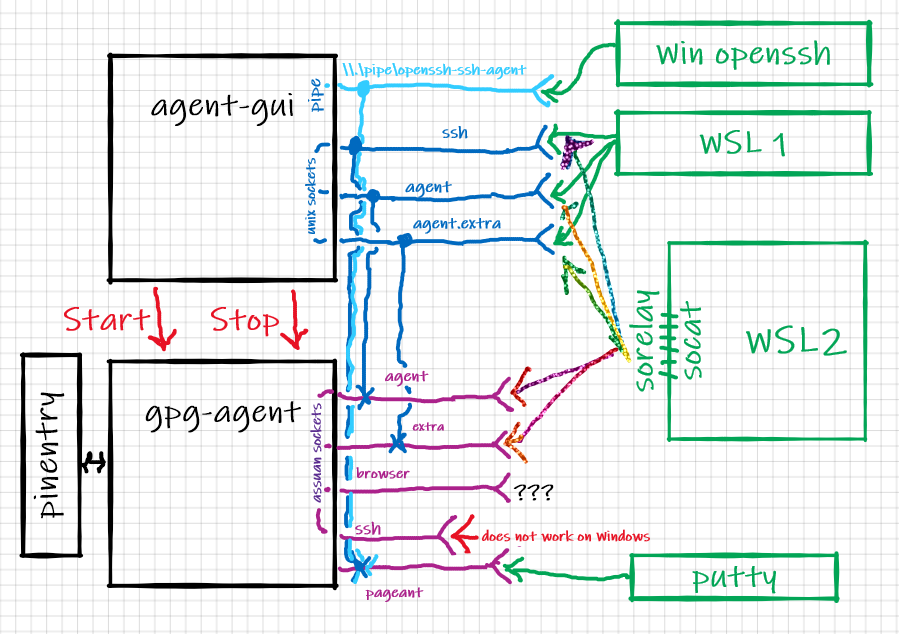
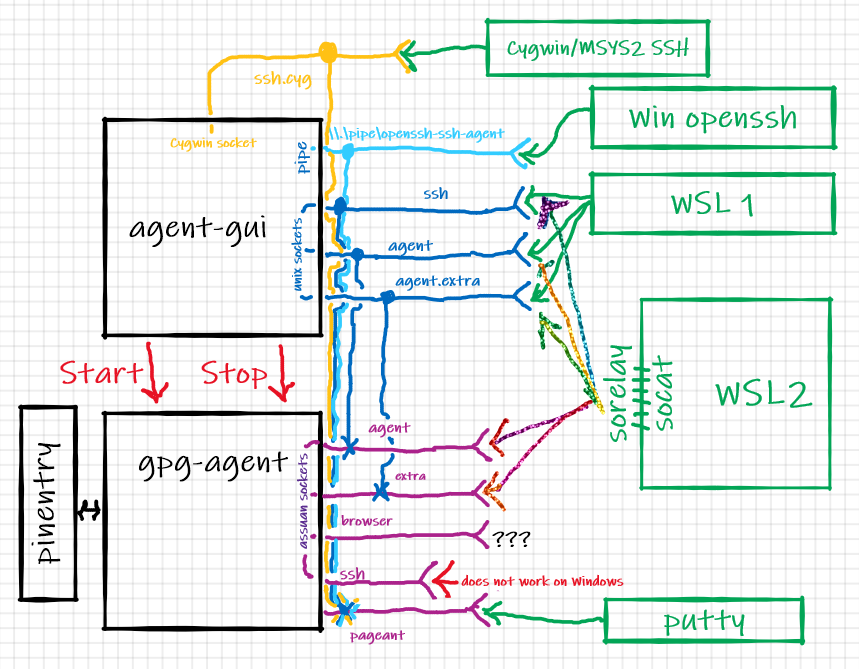
Adding support for Cygwin socket

Changed region(s): [[0.0, 0.0, 0.9988, 0.989], [0.0908, 0.2397, 0.1513, 0.2697]]

diff --git a/agent/connector.go b/agent/connector.go
@@ -34,6 +34,7 @@ const (
 	ConnectorSockAgentBrowser
 	ConnectorSockAgentSSH
 	ConnectorPipeSSH
+	ConnectorSockAgentCygwinSSH
 	maxConnector
 )
 
@@ -49,6 +50,8 @@ func (ct ConnectorType) String() string {
 		return "ssh-agent socket"
 	case ConnectorPipeSSH:
 		return "ssh-agent named pipe"
+	case ConnectorSockAgentCygwinSSH:
+		return "ssh-agent cygwin socket"
 	default:
 	}
 	return fmt.Sprintf("unknown connector type %d", ct)
@@ -84,11 +87,13 @@ func (c *Connector) Close() {
 	}
 	if err := c.listener.Close(); err != nil {
 		if !util.IsNetClosing(err) && !errors.Is(err, winio.ErrPipeListenerClosed) {
-			log.Printf("Error closing connector for %s: %s", c.index, err)
+			log.Printf("Error closing listener on connector for %s: %s", c.index, err)
 		}
 	}
 	if c.index != ConnectorPipeSSH && len(c.PathGUI()) != 0 {
-		_ = windows.Unlink(c.PathGUI())
+		if err := os.Remove(c.PathGUI()); err != nil {
+			log.Printf("Error closing connector for %s: %s", c.index, err.Error())
+		}
 	}
 }
 
@@ -118,6 +123,8 @@ func (c *Connector) Serve(deadline time.Duration) error {
 		return c.serveSSHSocket()
 	case ConnectorPipeSSH:
 		return c.serveSSHPipe()
+	case ConnectorSockAgentCygwinSSH:
+		return c.serveSSHCygwinSocket()
 	default:
 	}
 	log.Printf("Connector for %s is not supported", c.index)
@@ -206,8 +213,7 @@ func (c *Connector) serveAssuanSocket(deadline time.Duration) error {
 
 	_, err := os.Stat(socketName)
 	if err == nil || !os.IsNotExist(err) {
-		err = windows.Unlink(socketName)
-		if err != nil {
+		if err = os.Remove(socketName); err != nil {
 			return fmt.Errorf("failed to unlink socket %s: %w", socketName, err)
 		}
 	}
@@ -284,8 +290,7 @@ func (c *Connector) serveSSHSocket() error {
 
 	_, err := os.Stat(socketName)
 	if err == nil || !os.IsNotExist(err) {
-		err = windows.Unlink(socketName)
-		if err != nil {
+		if err = os.Remove(socketName); err != nil {
 			return fmt.Errorf("failed to unlink socket %s: %w", socketName, err)
 		}
 	}
@@ -304,6 +309,62 @@ func (c *Connector) serveSSHSocket() error {
 					log.Printf("Quiting - unable to serve on unix socket: %s", err)
 				}
 				return
+			}
+			c.wg.Add(1)
+			go func() {
+				defer c.wg.Done()
+				defer conn.Close()
+				id := time.Now().UnixNano() // create unique id for debug tracing
+				log.Printf("[%d] Accepted request from %s", id, socketName)
+				if err := serveSSH(id, conn, c.locked); err != nil {
+					log.Printf("[%d] SSH handler returned error: %s", id, err.Error())
+				}
+			}()
+		}
+	}()
+	return nil
+}
+
+func (c *Connector) serveSSHCygwinSocket() error {
+
+	if c == nil {
+		return fmt.Errorf("gpg agent has not been initialized properly")
+	}
+	socketName := c.PathGUI()
+	if len(socketName) > util.MaxNameLen {
+		return fmt.Errorf("socket name is too long: %d, max allowed: %d", len(socketName), util.MaxNameLen)
+	}
+
+	_, err := os.Stat(socketName)
+	if err == nil || !os.IsNotExist(err) {
+		if err = os.Remove(socketName); err != nil {
+			return fmt.Errorf("failed to unlink socket %s: %w", socketName, err)
+		}
+	}
+
+	c.listener, err = net.Listen("tcp", "localhost:0")
+	if err != nil {
+		return fmt.Errorf("could not open cygwin socket: %w", err)
+	}
+
+	port := c.listener.Addr().(*net.TCPAddr).Port
+	nonce, err := util.CygwinCreateSocketFile(socketName, port)
+	if err != nil {
+		return err
+	}
+
+	go func() {
+		log.Printf("Serving %s on %s:%d with nonce: %s)", c.index, socketName, port, util.CygwinNonceString(nonce))
+		for {
+			conn, err := c.listener.Accept()
+			if err != nil {
+				if !util.IsNetClosing(err) {
+					log.Printf("Quiting - unable to serve on Cygwin socket: %s", err)
+				}
+				return
+			}
+			if err = util.CygwinPerformHandshake(conn, nonce); err != nil {
+				log.Printf("Unable to perform handshake on Cygwin socket: %s", err)
 			}
 			c.wg.Add(1)
 			go func() {

diff --git a/util/names.go b/util/names.go
@@ -1,6 +1,15 @@
 package util
 
 import (
+	"bytes"
+	"crypto/rand"
+	"encoding/binary"
+	"encoding/hex"
+	"errors"
+	"fmt"
+	"io"
+	"io/ioutil"
+	"log"
 	"os"
 	"path/filepath"
 	"strings"
@@ -19,11 +28,12 @@ const (
 	// Putty seems to have it at 8 + 1024.
 	MaxAgentMsgLen = 256 * 1024
 
-	GPGAgentName           = "gpg-agent"
-	SocketAgentName        = "S." + GPGAgentName
-	SocketAgentBrowserName = "S." + GPGAgentName + ".browser"
-	SocketAgentExtraName   = "S." + GPGAgentName + ".extra"
-	SocketAgentSSHName     = "S." + GPGAgentName + ".ssh"
+	GPGAgentName             = "gpg-agent"
+	SocketAgentName          = "S." + GPGAgentName
+	SocketAgentBrowserName   = "S." + GPGAgentName + ".browser"
+	SocketAgentExtraName     = "S." + GPGAgentName + ".extra"
+	SocketAgentSSHName       = "S." + GPGAgentName + ".ssh"
+	SocketAgentSSHCygwinName = "S." + GPGAgentName + ".ssh.cyg"
 )
 
 // PrepareWindowsPath prepares Windows path for use on unix shell line without quoting.
@@ -104,4 +114,63 @@ func WaitForFileDeparture(period time.Duration, filenames ...string) {
 // IsNetClosing exists because ErrNetClosing is not exported. This is probably going to change in 1.16.
 func IsNetClosing(err error) bool {
 	return strings.Contains(err.Error(), "use of closed network connection")
+}
+
+// CygwinNonceString converts binary nonce to printable string in net order.
+func CygwinNonceString(nonce [16]byte) string {
+	var buf [35]byte
+	dst := buf[:]
+	for i := 0; i < 4; i++ {
+		b := nonce[i*4 : i*4+4]
+		hex.Encode(dst[i*9:i*9+8], []byte{b[3], b[2], b[1], b[0]})
+		if i != 3 {
+			dst[9*i+8] = '-'
+		}
+	}
+	return string(buf[:])
+}
+
+// CygwinCreateSocketFile creates CygWin socket file with proper content and attributes.
+func CygwinCreateSocketFile(fname string, port int) (nonce [16]byte, err error) {
+	if _, err = rand.Read(nonce[:]); err != nil {
+		return
+	}
+	if err = ioutil.WriteFile(fname, []byte(fmt.Sprintf("!<socket >%d s %s", port, CygwinNonceString(nonce))), 0600); err != nil {
+		return
+	}
+	var cpath *uint16
+	if cpath, err = windows.UTF16PtrFromString(fname); err != nil {
+		return
+	}
+	err = windows.SetFileAttributes(cpath, windows.FILE_ATTRIBUTE_SYSTEM|windows.FILE_ATTRIBUTE_READONLY)
+	return
+}
+
+// CygwinPerformHandshake exchanges handshake data.
+func CygwinPerformHandshake(conn io.ReadWriter, nonce [16]byte) error {
+
+	var nonceR [16]byte
+	if _, err := conn.Read(nonceR[:]); err != nil {
+		return err
+	}
+	if !bytes.Equal(nonce[:], nonceR[:]) {
+		log.Printf("Wrong nonce received - expecting %x but got %x", nonce[:], nonceR[:])
+		return errors.New("invalid nonce received")
+	}
+	if _, err := conn.Write(nonce[:]); err != nil {
+		return err
+	}
+
+	// read client pid:uid:gid
+	buf := make([]byte, 12)
+	if _, err := conn.Read(buf); err != nil {
+		return err
+	}
+
+	// Send back our info, making sure that gid:uid are the same as received
+	binary.LittleEndian.PutUint32(buf, uint32(os.Getpid()))
+	if _, err := conn.Write(buf); err != nil {
+		return err
+	}
+	return nil
 }

diff --git a/cmd/agent/main.go b/cmd/agent/main.go
@@ -94,18 +94,23 @@ func onSession(e systray.SessionEvent) {
 	}
 }
 
-func setVars() (func(), error) {
+func setVars(native bool) (func(), error) {
 
 	vars := []struct {
 		initialized         bool
 		name, value         string
 		register, translate bool
 	}{
+		{name: envPipeName, value: gpgAgent.Cfg.GUI.PipeName, register: false, translate: false},
 		{name: "WSL_" + envGPGHomeName, value: gpgAgent.Cfg.GPG.Home, register: true, translate: true},
 		{name: "WIN_" + envGPGHomeName, value: util.PrepareWindowsPath(gpgAgent.Cfg.GPG.Home), register: true, translate: false},
 		{name: "WSL_" + envGUIHomeName, value: gpgAgent.Cfg.GUI.Home, register: true, translate: true},
 		{name: "WIN_" + envGUIHomeName, value: util.PrepareWindowsPath(gpgAgent.Cfg.GUI.Home), register: true, translate: false},
-		{name: envPipeName, value: gpgAgent.Cfg.GUI.PipeName, register: false, translate: false},
+	}
+
+	if !native {
+		// set variable for Cygwin OpenSSH rather then for Windows OpenSSH
+		vars[0].value = gpgAgent.GetConnector(agent.ConnectorSockAgentCygwinSSH).PathGUI()
 	}
 
 	cleaner := func() {
@@ -138,6 +143,12 @@ func run() error {
 	// socket (WSL). NOTE: WSL2 requires additional layer of translation using socat on Linux side and either HYPER-V socket server or helper on Windows end
 	// since AF_UNIX interop is not (yet? ever?) implemented.
 
+	// Transact on Cygwin socket for ssh Cygwin/MSYS ports
+	if err := gpgAgent.Serve(agent.ConnectorSockAgentCygwinSSH); err != nil {
+		return err
+	}
+	defer gpgAgent.Close(agent.ConnectorSockAgentCygwinSSH)
+
 	// Transact on pipe for Windows openssh
 	if err := gpgAgent.Serve(agent.ConnectorPipeSSH); err != nil {
 		return err
@@ -163,7 +174,7 @@ func run() error {
 	defer gpgAgent.Close(agent.ConnectorSockAgentExtra)
 
 	if gpgAgent.Cfg.GUI.SetEnv {
-		cleaner, err := setVars()
+		cleaner, err := setVars(!strings.EqualFold(gpgAgent.Cfg.GUI.SSH, "cygwin"))
 		if err != nil {
 			return err
 		}

diff --git a/agent/agent.go b/agent/agent.go
@@ -63,6 +63,7 @@ func NewAgent(cfg *config.Config) (*Agent, error) {
 	a.conns[ConnectorSockAgentBrowser] = NewConnector(ConnectorSockAgentBrowser, a.Cfg.GPG.Home, a.Cfg.GUI.Home, util.SocketAgentBrowserName, locked, &a.wg)
 	a.conns[ConnectorSockAgentSSH] = NewConnector(ConnectorSockAgentSSH, a.Cfg.GPG.Home, a.Cfg.GUI.Home, util.SocketAgentSSHName, locked, &a.wg)
 	a.conns[ConnectorPipeSSH] = NewConnector(ConnectorPipeSSH, "", "", a.Cfg.GUI.PipeName, locked, &a.wg)
+	a.conns[ConnectorSockAgentCygwinSSH] = NewConnector(ConnectorSockAgentCygwinSSH, "", a.Cfg.GUI.Home, util.SocketAgentSSHCygwinName, locked, &a.wg)
 
 	util.WaitForFileDeparture(time.Second*5,
 		a.conns[ConnectorSockAgent].PathGPG(),
@@ -192,6 +193,13 @@ func (a *Agent) Start() error {
 	}()
 
 	return nil
+}
+
+func (a *Agent) GetConnector(ct ConnectorType) *Connector {
+	if a == nil || ct > maxConnector {
+		return nil
+	}
+	return a.conns[ct]
 }
 
 // Serve handles serving requests for a particular ConnectorType.

diff --git a/config/cfg.go b/config/cfg.go
@@ -38,6 +38,7 @@ type GUIConfig struct {
 	Debug             bool            `yaml:"debug,omitempty"`
 	SetEnv            bool            `yaml:"setenv,omitempty"`
 	IgnoreSessionLock bool            `yaml:"ignore_session_lock,omitempty"`
+	SSH               string          `yaml:"openssh,omitempty"`
 	PipeName          string          `yaml:"pipe_name,omitempty"`
 	Home              string          `yaml:"homedir,omitempty"`
 	Deadline          time.Duration   `yaml:"deadline,omitempty"`
@@ -49,6 +50,7 @@ var defaultGUIConfig = `
 gui:
   debug: false
   setenv: true
+  openssh: windows
   ignore_session_lock: false
   deadline: 1m
   pipe_name: %s

diff --git a/README.md b/README.md
@@ -12,7 +12,7 @@
 
 Windows 10 has `ssh-agent` service (with support for persistence and Windows security) and I have been using it [successfully](https:/github.com/rupor-github/wsl-ssh-agent) for a while. However there is another set of tools entirely - [GnuPG](https://gnupg.org/). It implements `ssh-agent` functionality (with somewhat more flexibility than original), supports smart cards, attempts to handle identity aspects of security and sometimes *must* be used (for example to sign git commits on some projects). All of that works [reasonably well](https://eklitzke.org/using-gpg-agent-effectively) on Linux.
 
-Windows usage is a bit more problematic as we have to deal with various non-cooperating pieces: GnuPG win32 binaries are somewhat deficient, OpenSSH port integrated into Windows 10 (console, terminal and all), WSL1 and WSL2 add challenges with specific binaries and different lifetime management requirements. Ideally we need to have Windows host to handle single set of secured keys (SSH and GPG) while transparently providing necessary interfaces to all other environments. This project aims to create simple set of tools to be combined with GnuPG binaries for Windows to do exactly that.
+Windows usage is a bit more problematic as we have to deal with various non-cooperating pieces: GnuPG win32 binaries are somewhat deficient, OpenSSH port integrated into Windows 10 (console, terminal and all), Cygwin/MSYS2 ssh tools and WSL1 and WSL2 add challenges with specific binaries and different lifetime management requirements. Ideally we need to have Windows host to handle single set of secured keys (SSH and GPG) while transparently providing necessary interfaces to all other environments. This project aims to create simple set of tools to be combined with GnuPG binaries for Windows to do exactly that.
 
 **DISCLAIMER** When using term `GnuPG` I am **not referring** to [GPG4Win](https://gpg4win.org), but rather to basic GnuPG tools built from code base common for all platforms. GPG4Win includes this set (which could be extracted), but normally it is available from GnuPG ftp site [ftp://ftp.gnupg.org](ftp://ftp.gnupg.org/gcrypt/binary/). It also could be installed by using [chocolatey](https://chocolatey.org/) command `choco install gnupg`. So no wonderful KDE GUIs ported to Windows. 
 
@@ -41,7 +41,10 @@ Download from the [releases page](https://github.com/rupor-github/win-gpg-agent/
 	Set-Service -StartupType Disabled ssh-agent
 ```
 
-3. Run `agent-gui.exe` 
+3. If you would like to use Cygwin/MSYS2 ssh tools (as is the case by default with [Git4Windows](https://gitforwindows.org/)) you may want to consider placing `gui.openssh: cygwin` in agent-gui.conf file. **NOTE** that in any case you need to manage `SSH_AUTH_SOCK` environment variable value on Windows side. It has to point to named pipe for Windows OpenSSH to work and to Cygwin socket file for Cygwin/MSYS2 tools and __both sets are using the same variable name__.
+
+4. Run `agent-gui.exe`
+
 
 Here is a diagram to show simplified relationship between parts: ![protocol](docs/pic1.png)
 
@@ -68,8 +71,9 @@ Is is a simple "notification tray" applet which does `gpg-agent.exe` lifetime ma
 - make sure that gpg-agent will use `pinentry.exe` from the same directory where agent-gui.exe is.
 - make sure that it functions by communicating with it.
 - create AF_UNIX socket counterparts for Assuan sockets from gpg-agent (except "browser" and "ssh" ones) and handle translation. I have no use for "browser" and S.gpg-agent.ssh presently does not work on Windows.
-- create and service named pipe for Windows native OpenSSH. Note, that both ssh AF_UNIX socket and named pipe are using pageant protocol to talk to gpg-agent.
-- set environment variable `SSH_AUTH_SOCK` on Windows side and set it with proper pipe name so native OpenSSH tools know where to go.
+- create and service named pipe for Windows native OpenSSH. Note, that OpenSSH (native and Cygwin) and AF_UNIX socket and named pipe are using pageant protocol to talk to gpg-agent.
+- create and service Cygwin socket for Cygwin/MSYS2 build of OpenSSH. Note, that OpenSSH (native and Cygwin) and AF_UNIX socket and named pipe are using pageant protocol to talk to gpg-agent.
+- set environment variable `SSH_AUTH_SOCK` on Windows side to point either to pipe name so native OpenSSH tools know where to go or to Cygwin socket file to be used with Cygwin/MSYS2 ssh binaries.
 - create `WIN_GNUPG_HOME`, `WSL_GNUPG_HOME`, `WIN_AGENT_HOME`, `WSL_AGENT_HOME` environment variables, setting them to point to directories with Assuan sockets and AF_UNIX sockets and register those environment variables with WSLENV for path translation. Basically WSL_* would be paths on the Linux side and WIN_* are Windows ones. This way every WSL environment started after will have proper "unix" and "windows" paths available for easy scripting.
 - serve as a backend for [gclpr](https://github.com/rupor-github/gclpr) remote clipboard tool (NOTE: starting with v1.1.0 gclpr server backend enforces protocol versioning and may require upgrade of gclpr).
 
@@ -86,6 +90,7 @@ gpg:
 gui:
   debug: false
   setenv: true
+  openssh: native
   ignore_session_lock: false
   deadline: 1m
   pipe_name: \\\\.\\pipe\\openssh-ssh-agent
@@ -102,6 +107,7 @@ Full list of configuration keys:
 * `gpg.gpg_agent_args` - array of additional arguments to be passed to gpg-agent on start. No checking is performed.
 * `gui.debug` - turn on debug logging. Uses `OutputDebugStringW` - use Sysinternals [debugview](https://docs.microsoft.com/en-us/sysinternals/downloads/debugview) to see
 * `gui.setenv` - automatically prepare environment variables
+* `gui.openssh` - when value is `cygwin` set environment `SSH_AUTH_SOCK` on Windows side to point to Cygwin socket file rather then named pipe, so Cygwin and MSYS2 ssh build could be used instead of what comes with Windows 10.
 * `gui.ignore_session_lock` - continue to serve requests even if user session is locked
 * `gui.pipe_name` - full name of pipe for Windows OpenSSH
 * `gui.homedir` - directory to be used by agent-gui to create sockets in
